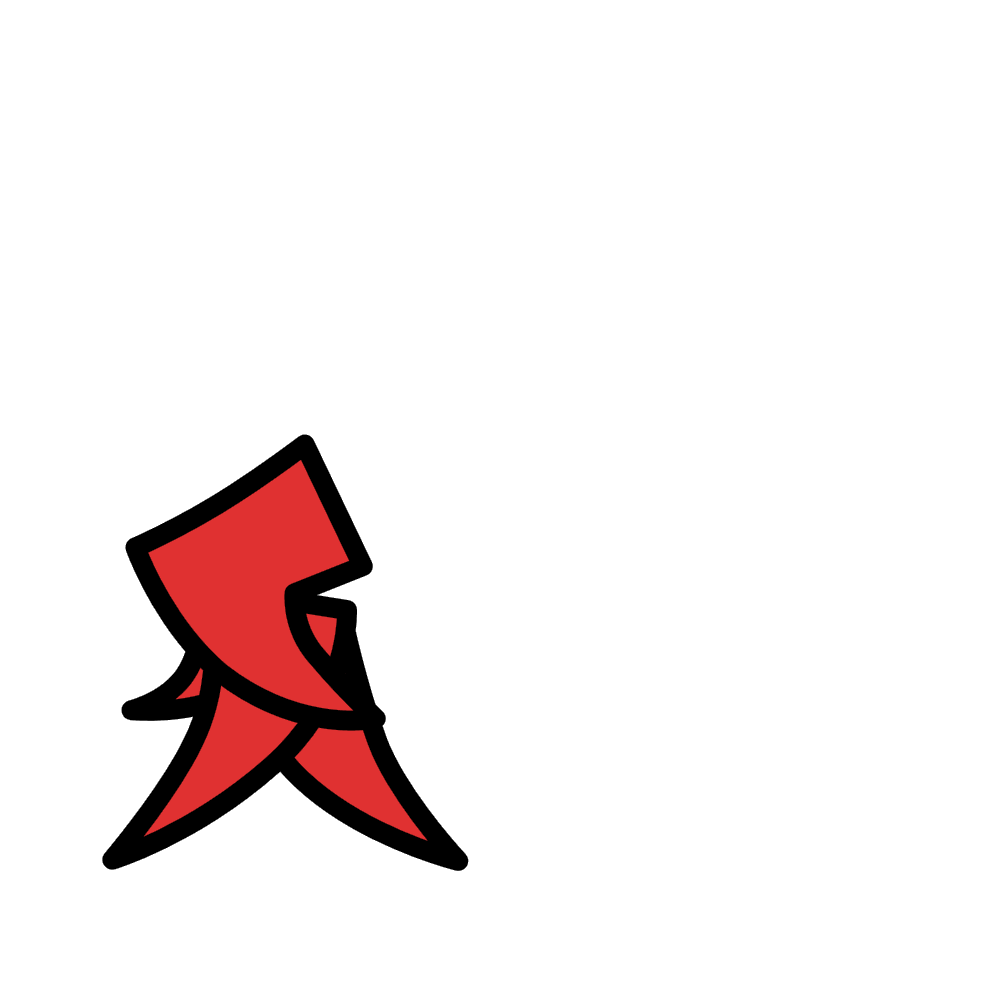
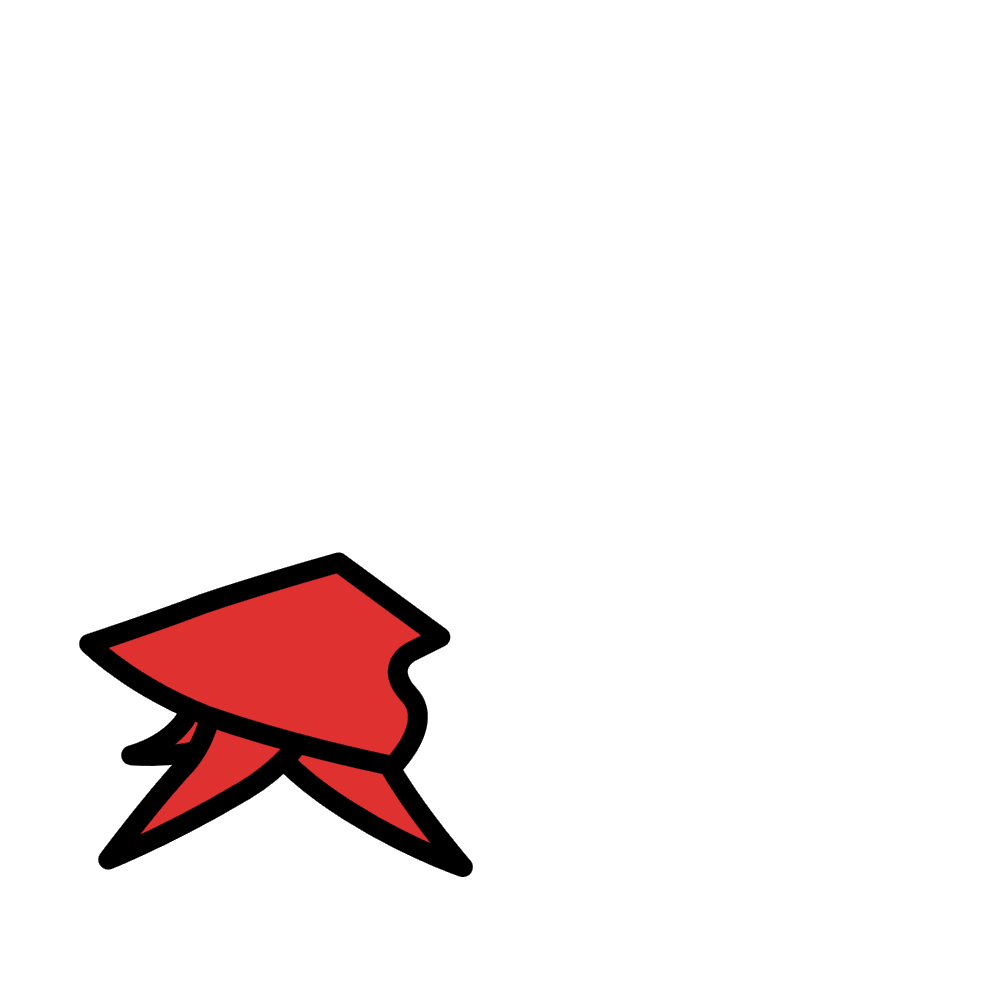
change lowering anim

Changed region(s): [[0.062, 0.434, 0.465, 0.837], [0.093, 0.806, 0.217, 0.868], [0.434, 0.868, 0.465, 0.899]]

diff --git a/character.h b/character.h
@@ -163,7 +163,7 @@ private:
     float sword_attack_dist {1.0};
     float total_jump_time {0.5};
     float total_slide_time {0.5};
-    float total_sword_attack_time {1.0};
+    float total_sword_attack_time {0.5};
     float time_between_slides {1.0};
     float time_between_sword_attacks {1.0};
     float lower_time {1.0};
